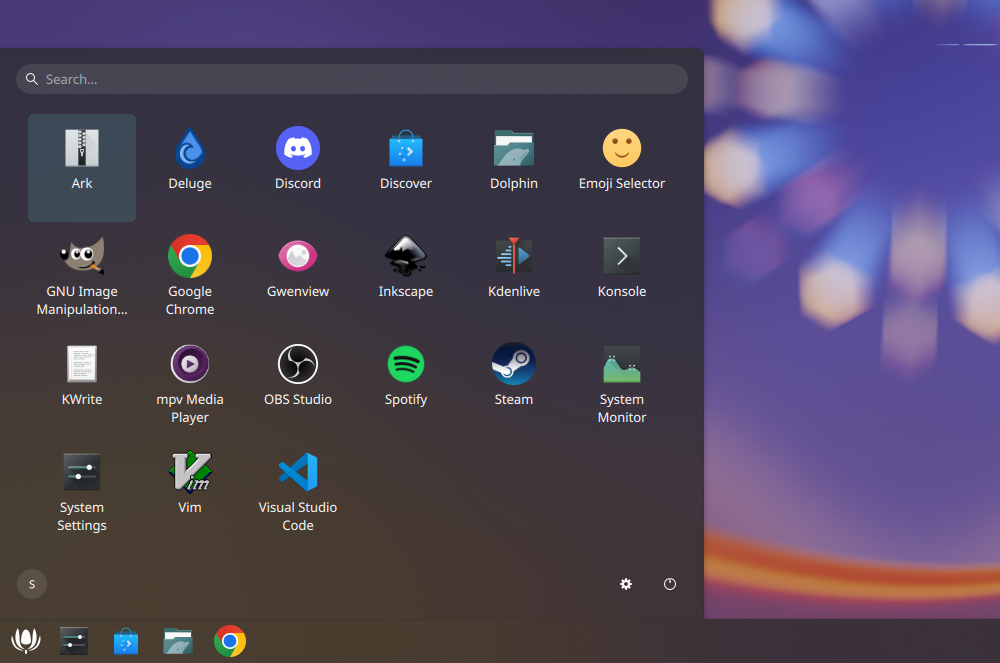
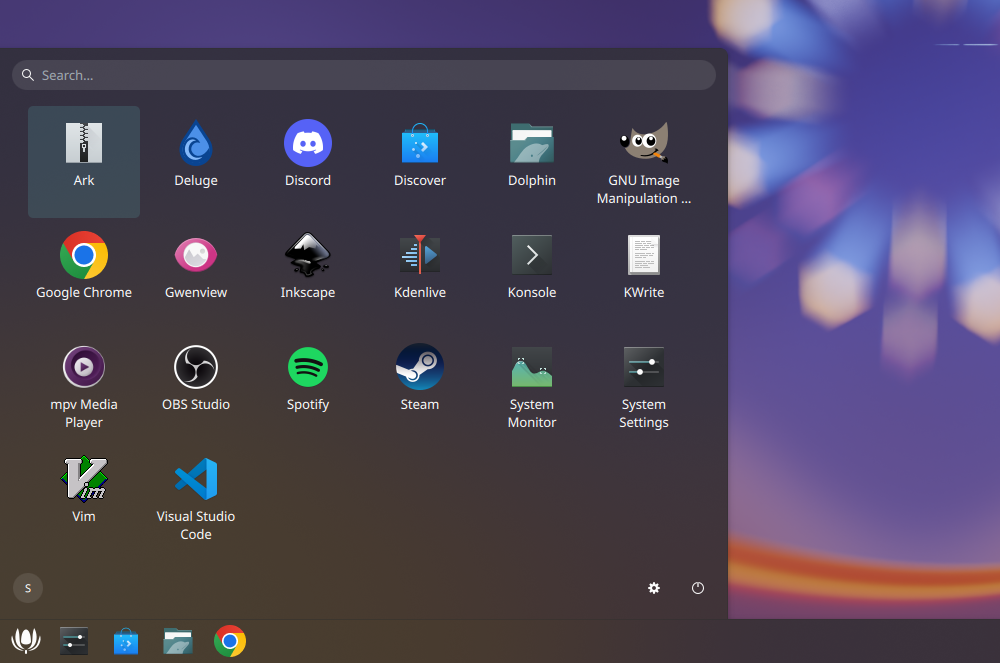
added spacious layout option

diff --git a/package/contents/ui/FullRepresentation.qml b/package/contents/ui/FullRepresentation.qml
@@ -75,8 +75,12 @@ T.Control {
     implicitWidth: implicitContentWidth + leftPadding + rightPadding
     implicitHeight: implicitContentHeight + topPadding + bottomPadding
 
-    // The same gap between the popup's edges and the sections, and between the sections.
-    readonly property real sectionGap: Kirigami.Units.largeSpacing * 1.5
+    // Larger tiles, and more space around the header and footer.
+    readonly property bool spacious: Plasmoid.configuration.spaciousLayout
+
+    // The same gap between the popup's edges and the sections, and between the sections:
+    // the space around the header and footer. Half as much again in the spacious layout.
+    readonly property real sectionGap: spacious ? Kirigami.Units.largeSpacing * 1.5 : Kirigami.Units.largeSpacing
 
     // Whether the header and footer (the search bar and utility bar) sit in dark bands.
     readonly property bool darkHeaderFooter: Plasmoid.configuration.headerFooterDarkBackground
@@ -91,15 +95,13 @@ T.Control {
     readonly property list<string> hiddenApps: Plasmoid.configuration.hiddenApps
 
     // Icon size, tile size and larger tile size for each app grid size (the gridSize
-    // setting). The largerTiles setting picks the larger tile.
+    // setting). The spacious layout picks the larger tile.
     readonly property var gridSizes: ({
-        compact: { iconSize: 36, tileSize: 100, largerTileSize: 108 },
         small: { iconSize: 40, tileSize: 104, largerTileSize: 112 },
-        cozy: { iconSize: 44, tileSize: 108, largerTileSize: 116 },
         medium: { iconSize: 48, tileSize: 112, largerTileSize: 120 },
         large: { iconSize: 56, tileSize: 120, largerTileSize: 128 },
     })
-    readonly property var gridSize: gridSizes[Plasmoid.configuration.gridSize] ?? gridSizes.cozy
+    readonly property var gridSize: gridSizes[Plasmoid.configuration.gridSize] ?? gridSizes.medium
 
     padding: sectionGap
     // With a dark background a bar sits in a band that runs to the popup's edge, which is
@@ -305,7 +307,7 @@ T.Control {
             columns: Plasmoid.configuration.columns
             rows: Plasmoid.configuration.rows
             iconSize: root.gridSize.iconSize
-            tileSize: Plasmoid.configuration.largerTiles ? root.gridSize.largerTileSize : root.gridSize.tileSize
+            tileSize: root.spacious ? root.gridSize.largerTileSize : root.gridSize.tileSize
             // Enter in the search box launches the selected tile too.
             highlightActive: activeFocus || searchBar.activeFocus
             hiddenApps: root.hiddenApps

diff --git a/package/contents/ui/ConfigGeneral.qml b/package/contents/ui/ConfigGeneral.qml
@@ -23,7 +23,7 @@ KCM.SimpleKCM {
     property alias cfg_columns: columns.value
     property alias cfg_rows: rows.value
     property string cfg_gridSize
-    property alias cfg_largerTiles: largerTiles.checked
+    property alias cfg_spaciousLayout: spaciousLayout.checked
 
     // Plasma also passes each setting's default; these give it somewhere to go.
     property string cfg_iconDefault
@@ -32,7 +32,7 @@ KCM.SimpleKCM {
     property int cfg_columnsDefault
     property int cfg_rowsDefault
     property string cfg_gridSizeDefault
-    property bool cfg_largerTilesDefault
+    property bool cfg_spaciousLayoutDefault
 
     // Set on the Utility Bar and Hidden Apps pages; Plasma hands every setting to every page.
     property var cfg_showUtilityBar
@@ -50,9 +50,7 @@ KCM.SimpleKCM {
 
     // App grid sizes in order; the values are the popup's gridSizes keys.
     readonly property var gridSizeOptions: [
-        { text: i18nc("@item:inlistbox app grid size", "Compact"), value: "compact" },
         { text: i18nc("@item:inlistbox app grid size", "Small"), value: "small" },
-        { text: i18nc("@item:inlistbox app grid size", "Cozy"), value: "cozy" },
         { text: i18nc("@item:inlistbox app grid size", "Medium"), value: "medium" },
         { text: i18nc("@item:inlistbox app grid size", "Large"), value: "large" },
     ]
@@ -173,9 +171,16 @@ KCM.SimpleKCM {
             onActivated: root.cfg_gridSize = currentValue
         }
 
+        // Tiles 8px larger, and 12px around the search bar and utility bar instead of 8.
         QQC2.CheckBox {
-            id: largerTiles
-            text: i18nc("@option:check", "Use larger tiles")
+            id: spaciousLayout
+            text: i18nc("@option:check", "Spacious layout")
+        }
+        QQC2.Label {
+            Layout.maximumWidth: Kirigami.Units.gridUnit * 16
+            text: i18nc("@info", "Larger tiles, and more space around the search bar and utility bar.")
+            font: Kirigami.Theme.smallFont
+            wrapMode: Text.Wrap
         }
     }
 }

diff --git a/package/contents/ui/ConfigHiddenApps.qml b/package/contents/ui/ConfigHiddenApps.qml
@@ -30,8 +30,8 @@ KCM.ScrollViewKCM {
     property var cfg_rowsDefault
     property var cfg_gridSize
     property var cfg_gridSizeDefault
-    property var cfg_largerTiles
-    property var cfg_largerTilesDefault
+    property var cfg_spaciousLayout
+    property var cfg_spaciousLayoutDefault
     property var cfg_showUtilityBar
     property var cfg_showUtilityBarDefault
     property var cfg_showAvatar

diff --git a/package/contents/ui/ConfigUtilityBar.qml b/package/contents/ui/ConfigUtilityBar.qml
@@ -40,8 +40,8 @@ KCM.SimpleKCM {
     property var cfg_rowsDefault
     property var cfg_gridSize
     property var cfg_gridSizeDefault
-    property var cfg_largerTiles
-    property var cfg_largerTilesDefault
+    property var cfg_spaciousLayout
+    property var cfg_spaciousLayoutDefault
     property var cfg_hiddenApps
     property var cfg_hiddenAppsDefault
 

diff --git a/DIMENSIONS.md b/DIMENSIONS.md
@@ -2,46 +2,48 @@
 
 Every size and gap used in the launcher popup, measured from the running code.
 
-- **Measured:** 2026-10-22 on Plasma 6.8.0 (Qt 6.12, Frameworks 6.31): the real popup loaded offscreen with the installed Plasma modules and KDE's font settings. First measured 2026-10-04 on Plasma 6.7.
-- **Settings:** the defaults: 6 columns × 4 rows, the **Cozy** size (44px icons in 108px tiles) without larger tiles, Round search bar corners, no dark header and footer.
+- **Measured:** 2026-10-22 on Plasma 6.8.0 (Qt 6.12, Frameworks 6.31): the real popup loaded offscreen with the installed Plasma modules and KDE's font settings. First measured 2026-10-04 on Plasma 6.7. The popup padding and section spacing went from 12 to 8 later on 2026-10-22, and the default size from Cozy to Medium when Compact and Cozy were removed; the values here are for 8 and Medium.
+- **Settings:** the defaults: 6 columns × 4 rows, the **Medium** size (48px icons in 112px tiles), Round search bar corners, no dark header and footer, not the spacious layout.
 - **Font:** Noto Sans 10pt (line height 17.7px). Label heights change with the system font. The Kirigami spacing units don't: they're fixed values.
 - **Units:** logical pixels, before display scaling.
-- **Not included:** the frame Plasma draws around the popup: 4px on every side with the Breeze theme. The window on screen is that much larger than the content sizes here. In a panel that isn't floating, Plasma also adds 1px between the popup and the panel (to the height for a top or bottom panel, the width for a side panel) for the separator line it draws there, and that pixel ends up in the app grid section: 449 tall instead of 448 under a bottom panel.
+- **Not included:** the frame Plasma draws around the popup: 4px on every side with the Breeze theme. The window on screen is that much larger than the content sizes here. In a panel that isn't floating, Plasma also adds 1px between the popup and the panel (to the height for a top or bottom panel, the width for a side panel) for the separator line it draws there, and that pixel ends up in the app grid section: 465 tall instead of 464 under a bottom panel.
 
 ## At a glance
 
-Content area: **696 × 562px** (696 × 554 with the dark header and footer). The popup has **12px padding** on every side and its three sections (search bar, app grid, utility bar) are **12px apart**, so the search bar and utility bar have 12px on all sides. The app grid spans the popup's full width and has one **24px gap** at each side of the tiles, with the scrollbar inside the right one, so the tiles are centred whether or not the scrollbar shows. Above the first row and below the last there's **8px** of empty space that scrolls with the tiles.
+Content area: **720 × 562px** (720 × 554 with the dark header and footer). The popup has **8px padding** on every side and its three sections (search bar, app grid, utility bar) are **8px apart**, so the search bar and utility bar have 8px on all sides. The app grid spans the popup's full width and has one **24px gap** at each side of the tiles, with the scrollbar inside the right one, so the tiles are centred whether or not the scrollbar shows. Above the first row and below the last there's **8px** of empty space that scrolls with the tiles.
+
+With **Spacious layout** ticked (under Size) the padding and section spacing are **12px** instead, `largeSpacing × 1.5`, and the tiles are 8 larger (see [App grid sizes](#app-grid-sizes)). At 6 × 4 Medium the popup is 768 × 610 (602 with the dark header and footer; 562 and 558 without the utility bar), and each bar is 744 wide (752 in the dark bands).
 
 ### Top to bottom
 
 | From top | Height | What |
 |---:|---:|---|
-| 0 | 12 | Popup padding |
-| 12 | 30 | Search bar |
-| 42 | 12 | Section spacing |
-| 54 | 8 | Empty space above the first row (scrolls with the tiles) |
-| 62 | 432 | Tiles (4 rows × 108) |
-| 494 | 8 | Empty space below the last row (scrolls with the tiles) |
-| 502 | 12 | Section spacing |
-| 514 | 36 | Utility bar |
-| 550 | 12 | Popup padding |
+| 0 | 8 | Popup padding |
+| 8 | 30 | Search bar |
+| 38 | 8 | Section spacing |
+| 46 | 8 | Empty space above the first row (scrolls with the tiles) |
+| 54 | 448 | Tiles (4 rows × 112) |
+| 502 | 8 | Empty space below the last row (scrolls with the tiles) |
+| 510 | 8 | Section spacing |
+| 518 | 36 | Utility bar |
+| 554 | 8 | Popup padding |
 | **562** | | **Total** |
 
-Positions in the grid are at the top of the list. With the dark header and footer the popup's top and bottom padding drop to 8, because each band runs on into Plasma's 4px frame and so still has 12 above the search bar and below the utility bar. That takes 8 off the total: 554.
+Positions in the grid are at the top of the list. With the dark header and footer the popup's top and bottom padding drop to 4, because each band runs on into Plasma's 4px frame and so still has 8 above the search bar and below the utility bar. That takes 8 off the total: 554.
 
-With the utility bar hidden (**Utility bar: Show** unticked) the bar and the section spacing above it are left out, so the popup is **514** tall (48 less). Under the grid there's then its own 8 below the last row and the 12 of padding, the same 20 as between the search bar and the first row. With the dark header and footer there's no footer band, so the bottom padding stays 12: **510**.
+With the utility bar hidden (**Utility bar: Show** unticked) the bar and the section spacing above it are left out, so the popup is **518** tall (44 less). Under the grid there's then its own 8 below the last row and the 8 of padding, the same 16 as between the search bar and the first row. With the dark header and footer there's no footer band, so the bottom padding stays 8: **514**.
 
 ### Left to right
 
 | Row | Left | Content | Right | Total |
 |---|---:|---|---:|---:|
-| Search bar | 12 | 672 | 12 | 696 |
-| App grid | 24 | 648 tiles (6 × 108) | 24 (the scrollbar sits in it) | 696 |
-| Utility bar | 12 | 672 | 12 | 696 |
+| Search bar | 8 | 704 | 8 | 720 |
+| App grid | 24 | 672 tiles (6 × 112) | 24 (the scrollbar sits in it) | 720 |
+| Utility bar | 8 | 704 | 8 | 720 |
 
-The search box and the avatar start at 12 and the tiles at 24 (12 further in). On the right, the tiles end at 672, the search box and the power button end at 684, and the scrollbar slot runs from 678 to the popup's edge at 696, with its visible handle at 684–690: 12 from the tiles and 6 from the edge.
+The search box and the avatar start at 8 and the tiles at 24 (16 further in). On the right, the tiles end at 696, the search box and the power button end at 712, and the scrollbar slot runs from 702 to the popup's edge at 720, with its visible handle at 708–714: 12 from the tiles and 6 from the edge.
 
-With the dark header and footer on, each bar is 680 wide, from 8 to 688: it reaches 4 into Plasma's frame on each side, as its band does, so it's 12 from the band's edges on all four sides.
+With the dark header and footer on, each bar is 712 wide, from 4 to 716: it reaches 4 into Plasma's frame on each side, as its band does, so it's 8 from the band's edges on all four sides.
 
 ### Size of the popup
 
@@ -51,77 +53,77 @@ It only ends up smaller if Plasma has to shrink it to fit the screen (Plasma cap
 
 | Popup size | Popup padding | Section spacing | Grid |
 |---|---:|---:|---|
-| 500 × 450 (forced smaller by a small screen) | 12 | 12 | 4 columns, 34 at each side, scrolls |
-| 696 × 562 (its size) | 12 | 12 | 6 × 4, 24 at each side |
+| 500 × 450 (forced smaller by a small screen) | 8 | 8 | 4 columns, 26 at each side, scrolls |
+| 720 × 562 (its size) | 8 | 8 | 6 × 4, 24 at each side |
 
 ## Popup
 
 | Property | Value | Source |
 |---|---|---|
-| Content size | 696 × 562 (696 × 554 with the dark header and footer) | Worked out by the layout from the content: columns × rows of tiles, the padding around them, and the bars |
+| Content size | 720 × 562 (720 × 554 with the dark header and footer) | Worked out by the layout from the content: columns × rows of tiles, the padding around them, and the bars |
 | Size limits | Minimum = maximum = content size, for both width and height | `Layout.minimum…`/`maximum…` bound to the implicit size; Plasma takes the popup's size limits from them, so it can't be dragged to another size |
-| Padding (all four sides) | 12 (8 at the top and bottom with the dark header and footer) | `padding` = `sectionGap` = `Kirigami.Units.largeSpacing × 1.5`; the app grid has `Layout.leftMargin` and `Layout.rightMargin` of −12 to span the full width, and its own gap at each side instead |
-| Section spacing | 12 | `spacing` = `sectionGap` |
+| Padding (all four sides) | 8 (4 at the top and bottom with the dark header and footer); 12 (8) in the spacious layout | `padding` = `sectionGap` = `Kirigami.Units.largeSpacing`, × 1.5 with the `spaciousLayout` setting; the app grid has `Layout.leftMargin` and `Layout.rightMargin` of −8 to span the full width, and its own gap at each side instead |
+| Section spacing | 8 (12 in the spacious layout) | `spacing` = `sectionGap` |
 
 ## Search bar
 
 | Property | Value | Source |
 |---|---|---|
-| Size | 672 × 30 (680 × 30 with the dark background) | Width fills the space inside the padding; height is `PlasmaExtras.SearchField`'s own |
-| Position | x 12, y 12 (x 8, y 8 with the dark background) | Popup padding |
-| Gap on every side | 12 | Padding on three sides, section spacing below; with the dark background, to the band's edges on all four sides |
+| Size | 704 × 30 (712 × 30 with the dark background) | Width fills the space inside the padding; height is `PlasmaExtras.SearchField`'s own |
+| Position | x 8, y 8 (x 4, y 4 with the dark background) | Popup padding |
+| Gap on every side | 8 | Padding on three sides, section spacing below; with the dark background, to the band's edges on all four sides |
 | Corners | Fully round ends (Round, the default): radius 15, half the height; or the theme's (Default) | `searchBarRoundCorners` setting. Round draws the field itself, filled with the text colour at 10% and with no outline at rest (as Protea Dark draws its own fields), a 1px outline in the hover colour (the accent) at 50% on hover and in the focus colour while typing, and keeps the theme's padding, so only the corners and fill change |
 | Placeholder text | "Search…" | Plasma's default |
-| Dark background (optional, off by default) | A band from the popup's top, left and right edges (it reaches the 4px of Plasma's popup frame beyond the content) to the top of the grid. Turning it on takes the frame's 4px off the top padding (the footer's band takes another 4 off the bottom), and widens the search bar by 4 on each side, so it's 12 (`sectionGap`) from the band's edges on all four sides | `headerFooterDarkBackground` setting, which turns on the utility bar's band too; black at 25% opacity; top corners rounded with `Kirigami.Units.cornerRadius` (5) to match the popup |
+| Dark background (optional, off by default) | A band from the popup's top, left and right edges (it reaches the 4px of Plasma's popup frame beyond the content) to the top of the grid. Turning it on takes the frame's 4px off the top padding (the footer's band takes another 4 off the bottom), and widens the search bar by 4 on each side, so it's 8 (`sectionGap`) from the band's edges on all four sides | `headerFooterDarkBackground` setting, which turns on the utility bar's band too; black at 25% opacity; top corners rounded with `Kirigami.Units.cornerRadius` (5) to match the popup |
 
 ## App grid
 
 | Property | Value | Source |
 |---|---|---|
-| Section size | 696 × 448 | The popup's full width; tiles + the gap at each side |
-| Position | x 0, y 54 | Popup padding, search bar and section spacing above it |
+| Section size | 720 × 464 | The popup's full width; tiles + the gap at each side |
+| Position | x 0, y 46 | Popup padding, search bar and section spacing above it |
 | Gap at each side | 24 between the section's edge and the tiles, the same on both sides (`horizontalPadding`, `Kirigami.Units.largeSpacing × 3`). It's the grid view's own margin, as in Kickoff, so the wheel and dragging scroll the grid from the gaps too | The scrollbar sits inside the right gap, so it doesn't change where the tiles are |
 | Scrolling space | 8 of empty space above the first row and below the last, which scrolls with the tiles, so they can move through it (`scrollPadding`, the grid's header and footer; `Kirigami.Units.largeSpacing`) | Arrowing into the first or last row scrolls all the way to the top or bottom, so the space shows |
-| Cell | 108 × 108, square | The size's tile (or larger tile); never smaller than a tile's icon and two-line label need |
+| Cell | 112 × 112, square | The size's tile (or larger tile); never smaller than a tile's icon and two-line label need |
 | Columns × rows | 6 × 4 | `columns`, `rows` settings |
-| Tile area | 648 × 432 at x 24, y 62 (at the top of the list) | columns × cell, rows × cell |
+| Tile area | 672 × 448 at x 24, y 54 (at the top of the list) | columns × cell, rows × cell |
 | Scrollbar | 18-wide slot at the popup's right edge, inside the 24 gap, the full height of the section, 6 clear of the tiles; the visible handle is 6 wide, with 6 of the slot's own padding on each side, so it sits 6 from the popup's edge and 12 from the last column of tiles. The 1px separator Breeze asks Plasma to draw along the slot's inner edge is hidden | Plasma scrollbar style; it takes no space of its own |
 | Horizontal position of tiles | Centred in the section: 24 at each side at the designed size, more if Plasma squeezes the popup and a column no longer fits | The grid view is the columns plus both gaps, centred |
 | Scroll step | 60px per wheel notch | 20 × system wheel lines (3) |
-| "No matches" message | 624 wide (section width − 72), centered | Section width − 4 × `gridUnit` |
+| "No matches" message | 648 wide (section width − 72), centered | Section width − 4 × `gridUnit` |
 
 ## Tiles
 
-Sizes for the default Cozy size; see [App grid sizes](#app-grid-sizes) for the others.
+Sizes for the default Medium size; see [App grid sizes](#app-grid-sizes) for the others.
 
 | Property | Value | Source |
 |---|---|---|
-| Size | 108 × 108 | One grid cell (the size's tile) |
+| Size | 112 × 112 | One grid cell (the size's tile) |
 | Padding | 8 on all sides | `Kirigami.Units.largeSpacing` |
-| Icon | 44 × 44, 12 below the tile's top edge, centred | The size's icon; drawn at exactly that size (`roundToIconSize: false`) |
+| Icon | 48 × 48, 13 below the tile's top edge, centred | The size's icon; drawn at exactly that size (`roundToIconSize: false`) |
 | Icon-to-label gap | 4 | `Kirigami.Units.smallSpacing` |
-| Label | 92 × 36, up to 2 lines, 12 above the tile's bottom edge | Tile width − padding; always reserves 2 lines |
-| Spare height | 8, shared above the icon and below the label (4 / 4) | Whatever the tile has beyond its content; at some sizes the layout gives a pixel or two more to the larger icon slot |
+| Label | 96 × 36, up to 2 lines, 11 above the tile's bottom edge | Tile width − padding; always reserves 2 lines |
+| Spare height | 8, shared above the icon and below the label (5 / 3) | Whatever the tile has beyond its content; at some sizes the layout gives a pixel or two more to the larger icon slot |
 | Label overflow | Wraps, then ends in "…" | Full name shown in a tooltip |
-| Highlight | 108 × 108, fills the tile | Plasma theme's view-item highlight |
+| Highlight | 112 × 112, fills the tile | Plasma theme's view-item highlight |
 
-Content needs 8 + 44 + 4 + 36 + 8 = 100, so the tile is its set size: max(108, 100) = **108**.
+Content needs 8 + 48 + 4 + 36 + 8 = 104, so the tile is its set size: max(112, 104) = **112**.
 
 ## Utility bar
 
 | Property | Value | Source |
 |---|---|---|
-| Size | 672 × 36 (680 × 36 with the dark background) | Width fills the space inside the padding; height is the buttons' |
-| Position | x 12, y 514 (x 8, y 510 with the dark header and footer) | Everything above it plus section spacing |
-| Gap on every side | 12 | Section spacing above, padding on the other three sides; with the dark background, to the band's edges on all four sides |
+| Size | 704 × 36 (712 × 36 with the dark background) | Width fills the space inside the padding; height is the buttons' |
+| Position | x 8, y 518 (x 4, y 514 with the dark header and footer) | Everything above it plus section spacing |
+| Gap on every side | 8 | Section spacing above, padding on the other three sides; with the dark background, to the band's edges on all four sides |
 | Gap between buttons | 8 | `Kirigami.Units.largeSpacing` |
-| Avatar | 32 × 32, at the left edge, vertically centered (x 12, y 516): a 30 × 30 circle inside 1 of padding, which holds the 1px focus ring. Without a profile picture the circle is filled with the text colour at 10% (as the search bar) with no outline, and shows the name's first letter, 11px. With **User avatar** unticked it's left out and nothing else moves: the bar's height comes from the buttons | `Kirigami.Units.iconSizes.medium`; `showAvatar` setting; [utility/UserAvatar.qml](package/contents/ui/utility/UserAvatar.qml) |
-| Buttons | 36 × 36 each (System Settings at x 604, Power at x 648), at the right edge | `Kirigami.Units.gridUnit × 2`; fixed, so the target is bigger than the icon |
+| Avatar | 32 × 32, at the left edge, vertically centered (x 8, y 520): a 30 × 30 circle inside 1 of padding, which holds the 1px focus ring. Without a profile picture the circle is filled with the text colour at 10% (as the search bar) with no outline, and shows the name's first letter, 11px. With **User avatar** unticked it's left out and nothing else moves: the bar's height comes from the buttons | `Kirigami.Units.iconSizes.medium`; `showAvatar` setting; [utility/UserAvatar.qml](package/contents/ui/utility/UserAvatar.qml) |
+| Buttons | 36 × 36 each (System Settings at x 632, Power at x 676), at the right edge | `Kirigami.Units.gridUnit × 2`; fixed, so the target is bigger than the icon |
 | Button icon | 16 × 16, monochrome, centered | `Kirigami.Units.iconSizes.small`; `-symbolic` icon names |
 | Button group | 80 wide (2 buttons, 1 gap of 8) | 2 × 36 + 8 |
 | Power menu | Opens above the power button, right edges aligned (below it when the panel is at the top or a side) | Plasma's native menu (`PlasmaExtras.Menu`) |
-| Hidden (optional, shown by default) | Left out with the section spacing above it; the popup is 48 shorter (514, or 510 with the dark header). No footer band | `showUtilityBar` setting |
-| Dark background (optional, off by default) | A band from the bottom of the grid to the popup's left, right and bottom edges (it reaches the 4px of Plasma's popup frame beyond the content). Turning it on takes the frame's 4px off the bottom padding (with the header's 4 off the top, the popup is 696 × 554), and widens the bar by 4 on each side, so it's 12 (`sectionGap`) from the band's edges on all four sides | `headerFooterDarkBackground` setting, shared with the search bar's band; black at 25% opacity; bottom corners rounded with `Kirigami.Units.cornerRadius` (5) to match the popup |
+| Hidden (optional, shown by default) | Left out with the section spacing above it; the popup is 44 shorter (518, or 514 with the dark header). No footer band | `showUtilityBar` setting |
+| Dark background (optional, off by default) | A band from the bottom of the grid to the popup's left, right and bottom edges (it reaches the 4px of Plasma's popup frame beyond the content). Turning it on takes the frame's 4px off the bottom padding (with the header's 4 off the top, the popup is 720 × 554), and widens the bar by 4 on each side, so it's 8 (`sectionGap`) from the band's edges on all four sides | `headerFooterDarkBackground` setting, shared with the search bar's band; black at 25% opacity; bottom corners rounded with `Kirigami.Units.cornerRadius` (5) to match the popup |
 
 ## Kirigami units in use
 
@@ -130,8 +132,8 @@ All fixed values in Kirigami 6; Plasma only changes the animation durations.
 | Unit | Value | Used for |
 |---|---:|---|
 | `smallSpacing` | 4 | Icon-to-label gap in tiles |
-| `largeSpacing` | 8 | The scrolling space above and below the tiles, tile padding, gap between utility buttons |
-| `largeSpacing × 1.5` | 12 | Popup padding and section spacing (`sectionGap`) |
+| `largeSpacing × 1.5` | 12 | Popup padding and section spacing in the spacious layout |
+| `largeSpacing` | 8 | Popup padding and section spacing (`sectionGap`), the scrolling space above and below the tiles, tile padding, gap between utility buttons |
 | `largeSpacing × 3` | 24 | The gap at each side of the app grid |
 | `gridUnit` | 18 | Utility button size (× 2); "No matches" message inset (× 4) |
 | `iconSizes.small` | 16 | Utility button icons |
@@ -152,31 +154,25 @@ All fixed values in Kirigami 6; Plasma only changes the animation durations.
 
 ## App grid sizes
 
-The app grid's **Size** setting picks one of five sizes, each an icon size and a tile size. **Use larger tiles** swaps in a tile 8 larger for whichever size is chosen. Every combination leaves room for the icon and a two-line name: a tile needs 8 + icon + 4 + 36 (two lines) + 8, and the tile is 8 more than that (16 more with larger tiles).
+The app grid's **Size** setting picks one of three sizes, each an icon size and a tile size. **Spacious layout** swaps in a tile 8 larger for whichever size is chosen, and puts 12 around the header and footer instead of 8. Every combination leaves room for the icon and a two-line name: a tile needs 8 + icon + 4 + 36 (two lines) + 8, and the tile is 8 more than that (16 more with the spacious layout's larger tile).
 
 | Size | Icon | Tile | Larger tile | Tile needs |
 |---|---:|---:|---:|---:|
-| Compact | 36 | 100 | 108 | 92 |
 | Small | 40 | 104 | 112 | 96 |
-| Cozy (default) | 44 | 108 | 116 | 100 |
-| Medium | 48 | 112 | 120 | 104 |
+| Medium (default) | 48 | 112 | 120 | 104 |
 | Large | 56 | 120 | 128 | 112 |
 
 | Size | Label width | Icon from top / label from bottom | Popup content at 6 × 4 |
 |---|---:|---|---:|
-| Compact | 84 | 12 / 12 | 648 × 530 |
-| Compact, larger tiles | 92 | 16 / 16 | 696 × 562 |
-| Small | 88 | 12 / 12 | 672 × 546 |
-| Small, larger tiles | 96 | 16 / 16 | 720 × 578 |
-| Cozy (default) | 92 | 12 / 12 | 696 × 562 |
-| Cozy, larger tiles | 100 | 17 / 15 | 744 × 594 |
-| Medium | 96 | 13 / 11 | 720 × 578 |
-| Medium, larger tiles | 104 | 17 / 15 | 768 × 610 |
-| Large | 104 | 13 / 11 | 768 × 610 |
-| Large, larger tiles | 112 | 18 / 14 | 816 × 642 |
+| Small | 88 | 12 / 12 | 672 × 530 |
+| Small, spacious | 96 | 16 / 16 | 720 × 578 |
+| Medium (default) | 96 | 13 / 11 | 720 × 562 |
+| Medium, spacious | 104 | 17 / 15 | 768 × 610 |
+| Large | 104 | 13 / 11 | 768 × 594 |
+| Large, spacious | 112 | 18 / 14 | 816 × 642 |
 
 - Width = columns × tile + 48: the 24 gap at each side of the grid.
-- Height = rows × tile + 130: 62 above the tiles (12 + 30 + 12 + 8) and 68 below them (8 + 12 + 36 + 12). 8 less with the dark header and footer.
+- Height = rows × tile + 114: 54 above the tiles (8 + 30 + 8 + 8) and 60 below them (8 + 8 + 36 + 8). 8 less with the dark header and footer. In the spacious layout it's rows × tile + 130, as the four gaps of 8 there are 12.
 
 ## Where it's set
 
@@ -188,4 +184,4 @@ The app grid's **Size** setting picks one of five sizes, each an icon size and a
 | Round search bar corners | [search/SearchBar.qml](package/contents/ui/search/SearchBar.qml) |
 | Avatar size, gap between buttons, button icon names, power menu | [utility/UtilityBar.qml](package/contents/ui/utility/UtilityBar.qml) |
 | Button size, button icon size | [utility/UtilityButton.qml](package/contents/ui/utility/UtilityButton.qml) |
-| Defaults for columns, rows, size, larger tiles, dark header and footer, search bar corners | [config/main.xml](package/contents/config/main.xml) |
+| Defaults for columns, rows, size, spacious layout, dark header and footer, search bar corners | [config/main.xml](package/contents/config/main.xml) |

diff --git a/PLAN.md b/PLAN.md
@@ -256,6 +256,10 @@ Things only a running session shows. Most were checked offscreen: the real popup
 - [x] Avatar: Protea's own button in place of Kirigami Addons' `AvatarButton`, whose circle has a 1.25px ring and a tint in a colour made from the name, with the initials in that colour, and nothing to turn them off. Without a profile picture it's the first letter of the name in the text colour on a circle filled like the search bar, with no outline; a picture is cropped to the circle as before (rounding needs hardware rendering, as with Kirigami Addons). Keyboard focus or pressing draws a 1px focus-colour ring around it (a filled circle behind, as Kirigami Addons draws it, would show through the see-through fill). Checked offscreen (letter, focus ring), in a real window (picture), and with the keyboard tests (Tab order)
 - [x] **User avatar** setting (`showAvatar`, on by default, so a popup that never had it set keeps its avatar): the first box under Buttons on the Utility Bar page, above System Settings and Power menu. Unticked, the avatar is left out of the utility bar; the buttons stay on the right and, while any button is shown, the bar stays 36 tall, so the popup's size doesn't change. Checked in a nested Plasma session: shown by default, hidden when unticked, and the box saves both ways
 - [x] **Utility bar: Show** setting (`showUtilityBar`, on by default), the first row on the Utility Bar page; unticked, the rest of the page is greyed out. Hidden, the popup leaves out the bar and the section gap above it (48 shorter: 514, or 510 with the dark header, as there's no footer band and the bottom padding stays 12). Tab then goes between the search bar and the grid. Checked in a nested Plasma session: the four popup heights, the greyed-out page, the box saving, and Tab
+- [x] Popup padding and section spacing (`sectionGap`) 12 → 8, `Kirigami.Units.largeSpacing` instead of × 1.5, so the search bar and utility bar have 8 on all sides. The grid's 24 gap at each side is its own and didn't change, so the tiles stay put and the bars widen to 680. The popup is 16 shorter: 696 × 546 (538 with the dark header and footer; 502 and 498 without the utility bar). Checked in a nested Plasma session: all four heights and the search bar's position. DIMENSIONS.md updated to match
+- [x] **Larger padding** setting (`headerFooterLargerPadding`, off by default), a second box under Header and footer on the General page: `sectionGap` goes back to `largeSpacing × 1.5` (12), the padding before the change above. Checked in a nested Plasma session: off is 546 tall, on is 562 (554 with the dark bands), and the box saves
+- [x] **Spacious layout** (`spaciousLayout`, off by default) in place of both Use larger tiles (`largerTiles`) and Larger padding (`headerFooterLargerPadding`): one box under Size, with a line under it saying what it does. Ticked, it picks the size's larger tile and puts 12 around the header and footer instead of 8; at 6 × 4 Cozy the popup goes from 696 × 546 to 744 × 594. Neither old setting had been released, so there's no migration; your own panel had both on and was switched to Spacious layout. Also corrected the tile sizes in `main.xml`'s description of `gridSize`, still the ones from before the tile swap
+- [x] Compact and Cozy sizes removed, leaving Small (40 / 104), Medium (48 / 112) and Large (56 / 120). Medium is the default now (user's choice): 48 is a size icon themes draw by hand, and Kickoff's grid uses it. The default popup is 720 × 562 (768 × 610 in the spacious layout). A saved `compact` or `cozy` falls back to Medium. DIMENSIONS.md redone for Medium; screenshots retaken
 
 ## Later (out of scope)
 

diff --git a/PUBLISHING.md b/PUBLISHING.md
@@ -74,7 +74,7 @@ Taken after Phase 3, so they show the launcher as it will ship. Keep them outsid
 - [x] The blank square in Plasma's Alternative Widgets list. It wasn't a missing preview picture: that list, and Add Widgets, show each widget's icon, and Protea's didn't load. `metadata.json` gave it as `/contents/icons/protea.svg`, but Plasma looks up an icon starting with `/` inside the package's `contents/` folder, so it found nothing. It's `/icons/protea.svg` now, and shows in both. The panel icon was never affected: Protea sets that itself
 - [x] A short description for the store page: in [STORE.md](STORE.md), with the store's other fields and the order to upload the screenshots in
 
-How the screenshots were taken (2026-10-22): in the same kind of nested Plasma 6.8 session as Phase 3, on a 1920 × 1080 screen at 100%, with the Protea Dark theme copied from the installed files (its Teal accent, Plasma Style, Breeze Dark icons, and the Protea app style and window decoration), Plasma's default wallpaper, and a bottom panel. The grid hides the same apps as your own panel. The avatar shows its letter rather than a picture: the test copy of the launcher was changed for that, not the one in `package/`. The popup shots are cropped to the popup and the panel's corner; the settings shots to the window with 32 px around it.
+How the screenshots were taken (2026-10-22): in the same kind of nested Plasma 6.8 session as Phase 3, on a 1920 × 1080 screen at 100%, with the Protea Dark theme copied from the installed files (its Teal accent, Plasma Style, Breeze Dark icons, and the Protea app style and window decoration), Plasma's default wallpaper, and a bottom panel. The grid hides the same apps as your own panel. The avatar shows its letter rather than a picture: the test copy of the launcher was changed for that, not the one in `package/`. The popup shots are cropped to the popup and the panel's corner; the settings shots to the window with 32 px around it. `popup.png` and `search.png` were retaken the same day after the popup's padding went from 12 to 8, and `settings-general.png` after Spacious layout replaced Use larger tiles and Larger padding. All three were retaken again when Medium became the default size.
 
 **Done when:** the screenshots and the store description are ready to upload.
 

diff --git a/README.md b/README.md
@@ -70,8 +70,8 @@ The settings are on three pages: **General** (panel icon, appearance and the app
 | Header and footer background | Off; tick it for dark bands (black at 25% opacity) behind the search bar at the top and the utility bar at the bottom, running to the popup's edges |
 | Search bar corners | Round (fully rounded ends, filled with the text colour at 10%); or Default, the theme's own search field |
 | Columns × rows | 6 × 4 (3 to 12 each); the popup sizes itself to fit |
-| Size | Cozy; also Compact, Small, Medium and Large. Each sets the icon size and its tile size |
-| Use larger tiles | Off; tick it for tiles 8 px larger at whichever size is chosen |
+| Size | Medium (48 px icons); also Small (40 px) and Large (56 px). Each sets the icon size and its tile size |
+| Spacious layout | Off; tick it for tiles 8 px larger at whichever size is chosen, and 12 px around the search bar and utility bar instead of 8. At 6 × 4 the popup gets 48 px wider and taller |
 | Utility bar | Shown; untick it for a popup without the bar at the bottom, 48 px shorter. The rest of the Utility Bar page is greyed out while it's hidden |
 | User avatar | On; untick it to leave the avatar off the utility bar. The buttons stay on the right |
 | Buttons on the utility bar | System Settings and the power menu; any session action can also get its own button |

diff --git a/STORE.md b/STORE.md
@@ -20,7 +20,7 @@ Protea replaces the Application Launcher with a compact popup in three parts: a 
 
 Features:
 - Start typing to search apps and System Settings pages; Enter launches the first result
-- Choose the grid's columns and rows, and one of five icon sizes
+- Choose the grid's columns and rows, one of three icon sizes, and a more spacious layout
 - Full keyboard control: arrows, Home/End, Page Up/Down, Tab, Esc
 - Right-click an app for its own actions (such as New Private Window), Add to Desktop, Pin to Task Manager, Edit Application and Hide
 - Hide apps you never use; they still show up when you search
